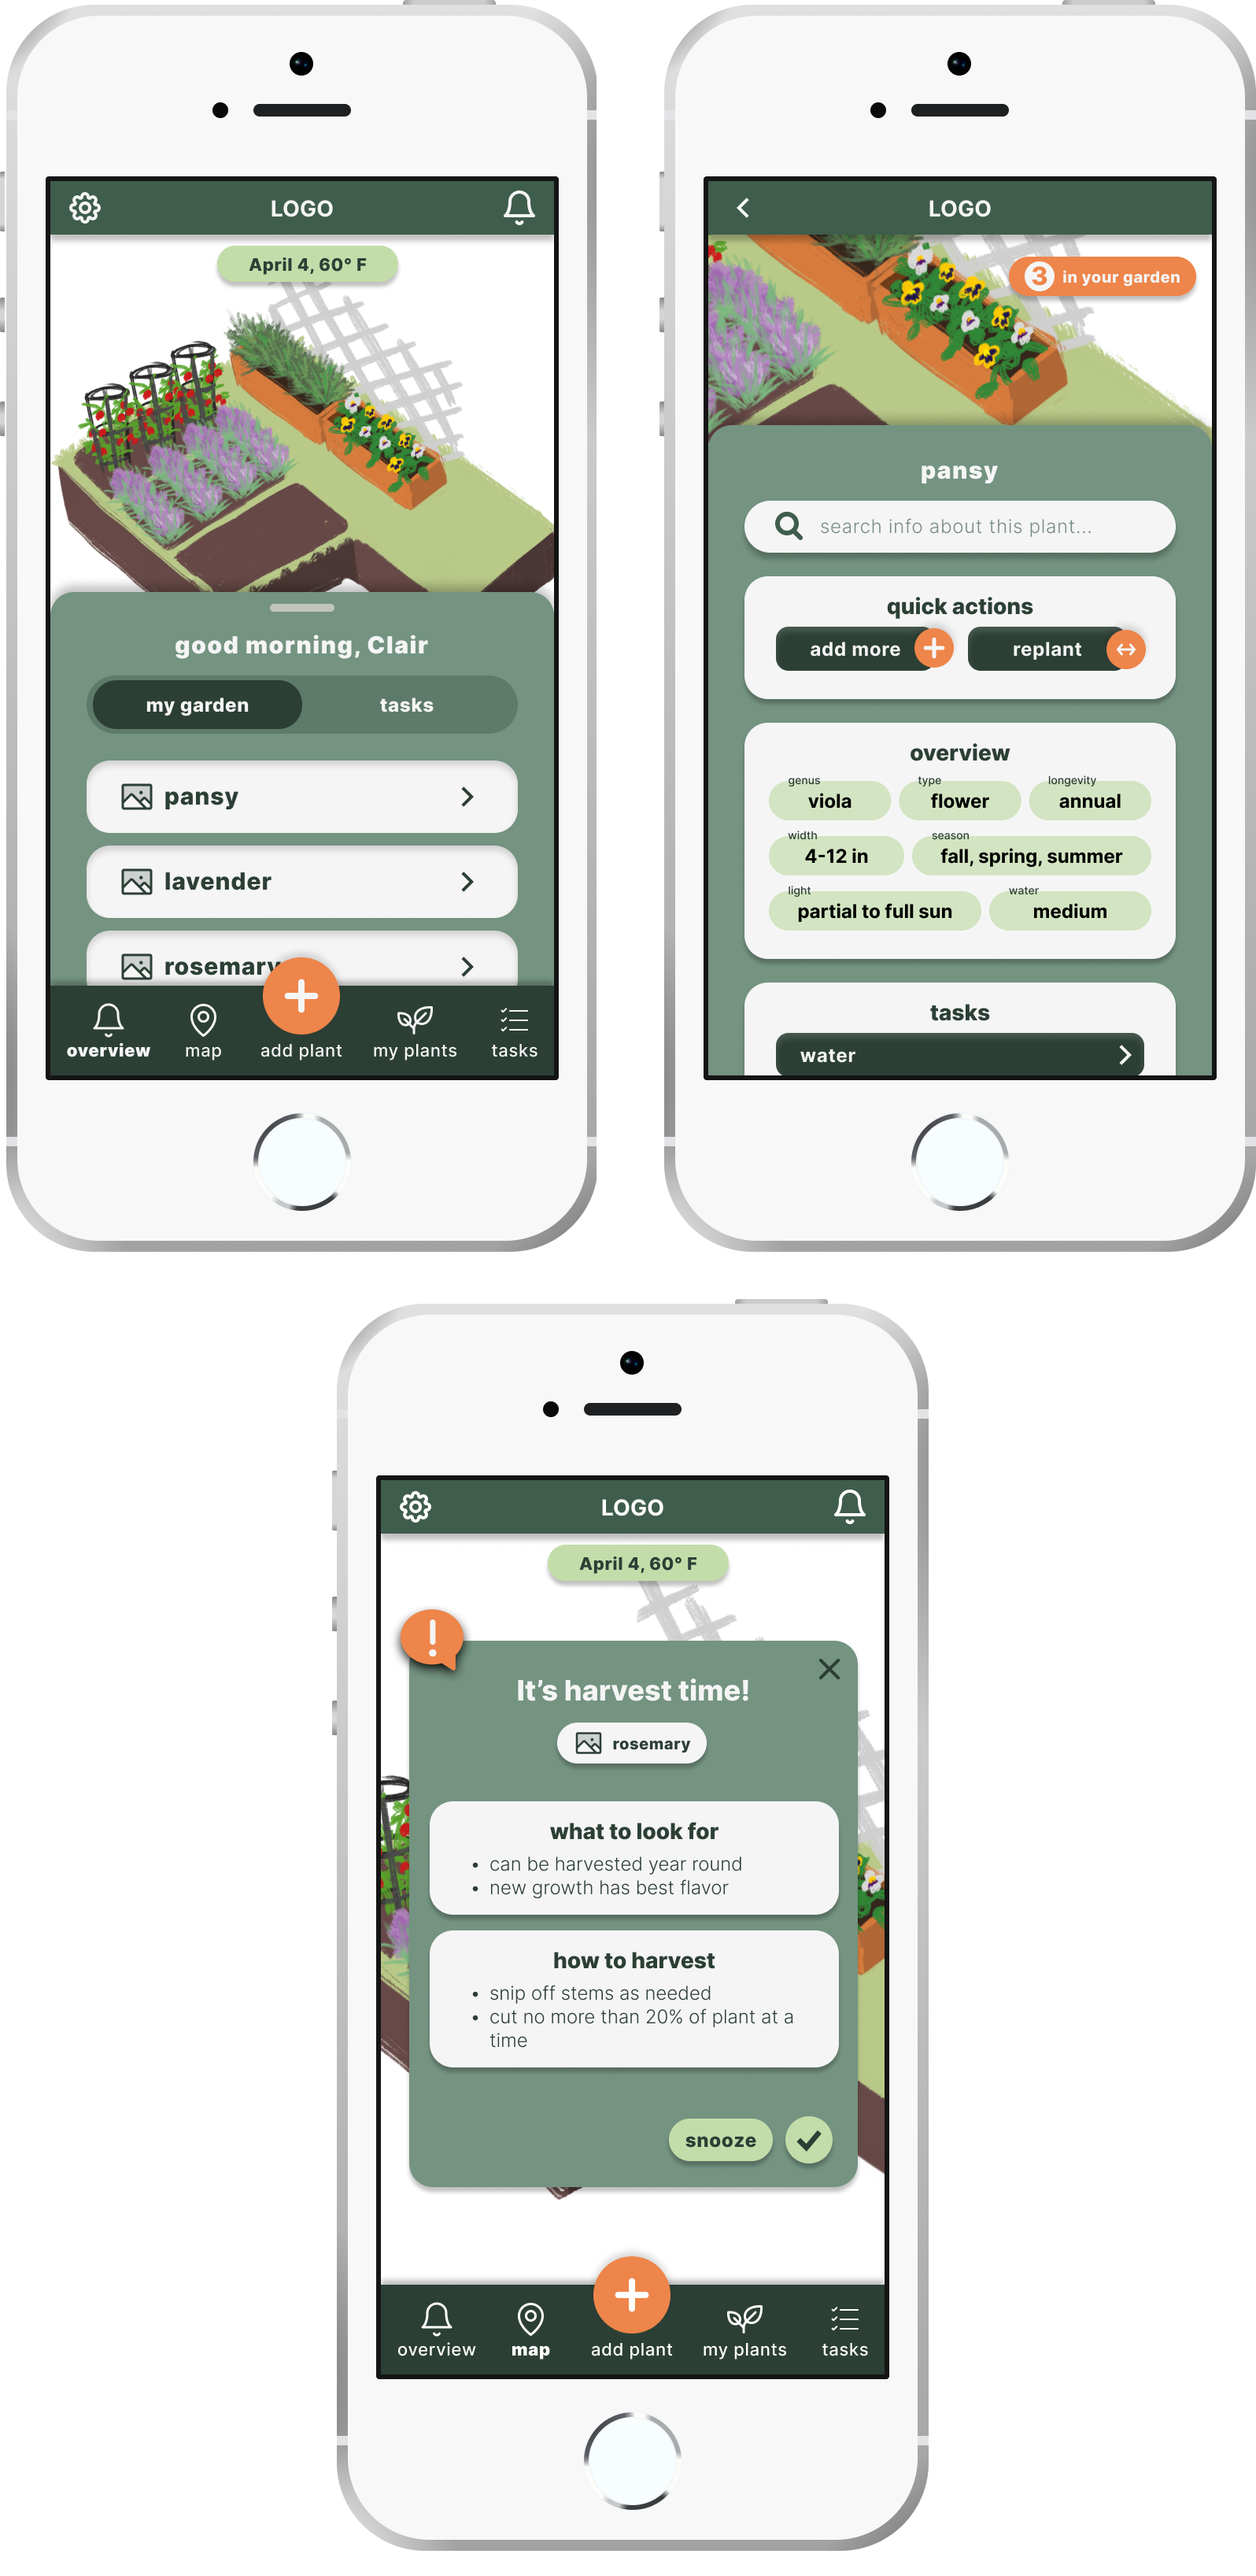
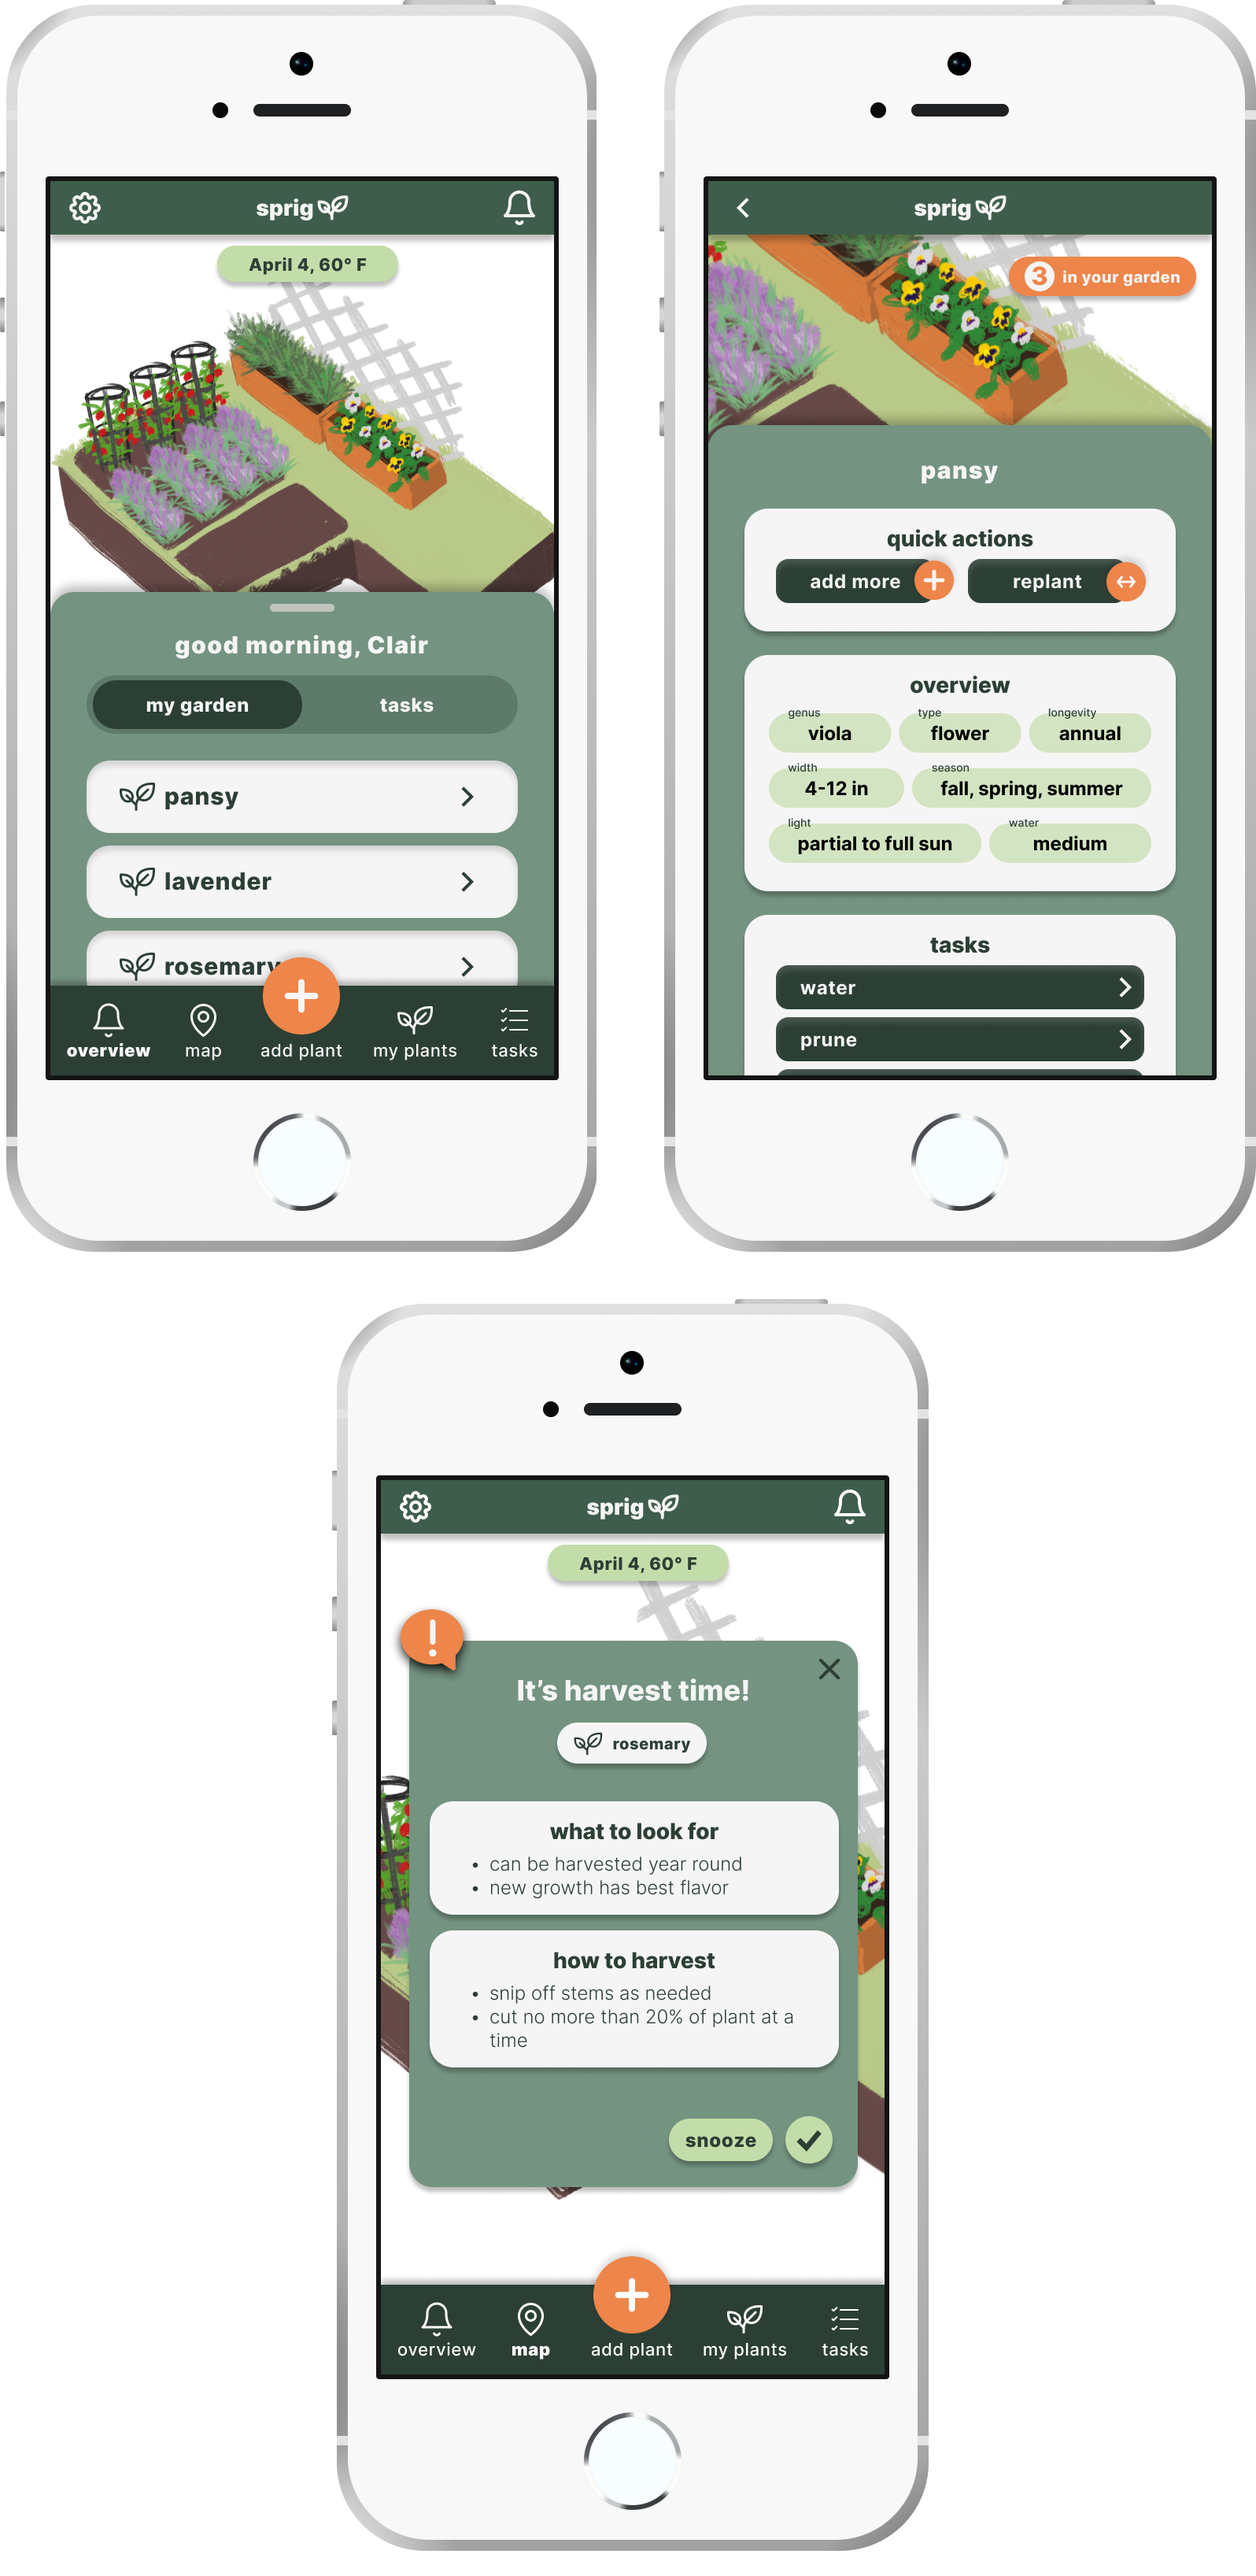
click element added, minor desktop tweaks

diff --git a/style.css b/style.css
@@ -6,11 +6,11 @@ body {
 .desktop {
     display: flex;
     flex-direction: row;
-    height: 100vh;
+    height: auto;
 }
 .desktopText {
     width: 40%;
-    padding: 0% 8%;
+    padding: 5% 8%;
     display: flex;
     flex-direction: column;
     align-items: center;
@@ -18,8 +18,8 @@ body {
 }
 .desktopImage {
     width: 60%;
-    margin: 1%;
-	padding-right: 3%;
+    margin-top: 5%;
+	padding-right: 8%;
     background-image: url(Images/Desktop-landing-page.png);
     background-size: contain;
     background-repeat: no-repeat;
@@ -69,6 +69,22 @@ body {
     display: none;
 }
 
+/* Tablet styles here */
+@media only screen and (max-width: 768px) {
+#desktopHeading {
+    font-size: 75px;
+}
+.desktopSubhead {
+    font-size: 14px;
+}
+.desktopP {
+    font-size: 15px;
+}
+.desktopCTA {
+    font-size: 18px !important;
+}
+}
+	
 /* Mobile styles here */
 @media only screen and (max-width: 539px) {
     body {
@@ -117,8 +133,13 @@ body {
         margin-bottom: 1%;
     }
     .logo {
+		background-image: url(Images/Logo.png);
+        background-size: contain;
+        background-repeat: no-repeat;
+        background-position: center;
         display: flex;
         align-items: center;
+		width: 16%;
     }
     .alerts {
         width: 7.5%;
@@ -241,7 +262,7 @@ body {
     }
     .gardenPlantIcon {
         width: 17%;
-        background-image: url(Images/image.png);
+        background-image: url(Images/plantgreen.png);
         background-size: contain;
         background-repeat: no-repeat;
         background-position: center;
@@ -422,8 +443,13 @@ body {
         margin-bottom: 1%;
     }
     .addLogo {
+        background-image: url(Images/Logo.png);
+        background-size: contain;
+        background-repeat: no-repeat;
+        background-position: center;
         display: flex;
         align-items: center;
+		width: 16%;
     }
     .addAlerts {
         width: 7.5%;
@@ -525,7 +551,7 @@ body {
     }
     .addPlantIcon {
         width: 17%;
-        background-image: url(Images/image.png);
+        background-image: url(Images/plantgreen.png);
         background-size: contain;
         background-repeat: no-repeat;
         background-position: center;
@@ -604,6 +630,7 @@ body {
     #circle1 {
         left: clamp(55px, 13%, 100px);
         bottom: 36.3%;
+		cursor: pointer;
     }
     #circle2 {
         left: clamp(89px, 26%, 500px);
@@ -613,16 +640,10 @@ body {
         left: 41%;
         bottom: 43.7%;
     }
-    #circleDefault {
-        height: 72px;
-        width: 72px;
-        border-radius: 0;
-        box-shadow: none;
-        background-color: transparent;
-        bottom: 40px;
-    }
     .plantTile {
+		position: fixed;
         background-color: #2C3F35;
+		bottom: 40px;
         width: 72px;
         height: 72px;
         border-radius: 15px;
@@ -636,7 +657,7 @@ body {
     .plantTileIcon {
         width: 50px;
         height: 50px;
-        background-image: url(Images/imagewhite.png);
+        background-image: url(Images/leaf.png);
         background-size: contain;
         background-repeat: no-repeat;
         background-position: center;
@@ -647,9 +668,9 @@ body {
         font-size: 12px;
     }
    @keyframes dragTooltip {
-        0% {bottom: 102px;}
-        50% {bottom: 107px;}
-        0% {bottom: 102px;}
+        0% {bottom: 108px;}
+        50% {bottom: 113px;}
+        0% {bottom: 108px;}
     }
     .dragTooltip {
         position: fixed;
@@ -658,7 +679,7 @@ body {
         align-items: center;
         height: 85px;
         width: 206px;
-        bottom: 102px;
+        bottom: 108px;
         right: 8%;
         background-image: url(Images/dragdialog.png);
         background-size: contain;

diff --git a/interactions.js b/interactions.js
@@ -1,6 +1,7 @@
 $( document ).ready(function() {
     $(".dragTooltip").hide();
     $(".dragTarget").hide();
+	$(".plantTile").hide();
 	$(".endScreen").hide();
 	$(".bottomSheet").delay(600).animate({top: "53%"}, 1400);
 	$(".gardenImage").delay(1500).animate({height: "67%"});
@@ -34,6 +35,7 @@ $( ".basil" ).on( "click", function() {
     $(".bottomSheet").delay(400).hide();
     $(".dragTarget").delay(800).fadeIn(800);
     $(".dragTooltip").delay(800).fadeIn(800);
+	$(".plantTile").delay(800).fadeIn(800);
     console.log("ready for drag");
 });
 
@@ -59,8 +61,8 @@ $( ".plantTile" ).draggable({
         $(".plantTileText").animate({"font-size": "8px"}, 800);
       },
       stop: function() {
-        $(".plantTile").delay(300).fadeOut(700);
-        $(".checkmark").delay(900).fadeIn(800);
+        $(".plantTile").fadeOut(100);
+        $(".checkmark").delay(400).fadeIn(800);
 		$(".checkmark").delay(1200).fadeOut(500);
 		$("#circle1").delay(3300).fadeOut(500);
 		$('.gardenImage')
@@ -69,9 +71,30 @@ $( ".plantTile" ).draggable({
     			$(this).css('background-image', 'url(Images/withbasil.png)'); 
     			next(); 
   			});
-		$(".endScreen").delay(6000).fadeIn(300);
+		$(".endScreen").delay(5800).fadeIn(300);
       }
     });
+
+
+$( "#circle1" ).on( "click", function() {
+    $(".dragTooltip").fadeOut(300);
+	$(".plantTile").animate({"width": "45px", "height": "45px", "border-radius": "10px"}, 800);
+    $(".plantTileIcon").animate({"width": "25px", "height": "25px"}, 800);
+    $(".plantTileText").animate({"font-size": "8px"}, 800);
+	$(".plantTile").animate({"left": "13%", "bottom": "36.3%"}, 800);
+	$(".plantTile").fadeOut(700);
+    $(".checkmark").delay(1700).fadeIn(800);
+	$(".checkmark").delay(1700).fadeOut(500);
+	$("#circle1").delay(4100).fadeOut(500);
+	$('.gardenImage')
+  		.delay(5000)
+  		.queue(function (next) { 
+    		$(this).css('background-image', 'url(Images/withbasil.png)'); 
+    		next(); 
+  		});
+	$(".endScreen").delay(6300).fadeIn(300);
+});
+
 
 $( ".endScreen" ).on( "click", function() {
     location.reload(true);

diff --git a/index.html b/index.html
@@ -27,7 +27,7 @@
                 <div class="desktopListItem"><img src="Images/leaf.png" class="desktopIcon">Filter by color, water, and light</div>
             </div>
         </div>
-        <div class="desktopSubhead desktopCTA">And so much more. Shrink your screen for a drag and drop demo.</div>
+        <div class="desktopSubhead desktopCTA">And so much more. Shrink your screen for a planting demo.</div>
     </div>
     <div class="desktopImage">
     </div>
@@ -38,7 +38,7 @@
     <div class="homePage">
         <div class="navBar">
             <div class="settings"></div>
-            <div class="logo">logo</div>
+            <div class="logo"></div>
             <div class="alerts"></div>
         </div>
         <div class="weatherBar">
@@ -113,14 +113,12 @@
             </div>
         </div>
         <div class="dragTooltip">
-            <div class="dragTooltipText">drag and drop! Here's a spot where it'll work well.</div>
+            <div class="dragTooltipText">drag, drop, or click! Here's a spot where it'll work well.</div>
         </div>
-        <div class="dragTarget" id="circleDefault">
-            <div class="plantTile">
-                <div class="plantTileIcon"></div>
-                <div class="plantTileText">basil</div>
-            </div>
-        </div>
+        <div class="plantTile">
+            <div class="plantTileIcon"></div>
+            <div class="plantTileText">basil</div>
+		</div>
         <div class="dragTarget" id="circle1"></div>
         <div class="checkmark"></div>
 		<div class="endScreen">
@@ -131,7 +129,7 @@
     <div class="addPlantScreen">
         <div class="addNavBar">
             <div class="addBack"></div>
-            <div class="addLogo">logo</div>
+            <div class="addLogo"></div>
             <div class="addAlerts"></div>
         </div>
         <div class="addMainSection">
